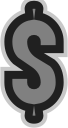
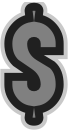
Fixed number alignments

diff --git a/src/static/css/sprites.css b/src/static/css/sprites.css
@@ -101,9 +101,9 @@
 .glyph_colon {
 	display: block;
 	width: 39px;
-	height: 81px;
-	background-position: 85.91549295774648% 0.051387461459403906%;
-	background-size:  2102.5641025641025% 2502.469135802469%;
+	height: 130px;
+	background-position: 85.91549295774648% 0.05271481286241434%;
+	background-size:  2102.5641025641025% 1559.2307692307693%;
 	background-image: url(../assets/img/sprites.png);
 	padding: 0;
 }
@@ -111,9 +111,9 @@
 .glyph_comma {
 	display: block;
 	width: 45px;
-	height: 54px;
-	background-position: 91.74193548387096% 0.05068423720223011%;
-	background-size:  1822.2222222222222% 3753.703703703704%;
+	height: 130px;
+	background-position: 91.74193548387096% 0.05271481286241434%;
+	background-size:  1822.2222222222222% 1559.2307692307693%;
 	background-image: url(../assets/img/sprites.png);
 	padding: 0;
 }
@@ -121,9 +121,9 @@
 .glyph_dollar {
 	display: block;
 	width: 68px;
-	height: 128px;
-	background-position: 0.13297872340425532% 6.9510268562401265%;
-	background-size:  1205.8823529411764% 1583.59375%;
+	height: 130px;
+	background-position: 0.13297872340425532% 6.9583552978386916%;
+	background-size:  1205.8823529411764% 1559.2307692307693%;
 	background-image: url(../assets/img/sprites.png);
 	padding: 0;
 }
@@ -131,9 +131,9 @@
 .glyph_equals {
 	display: block;
 	width: 54px;
-	height: 60px;
-	background-position: 9.138381201044385% 6.710726995424504%;
-	background-size:  1518.5185185185185% 3378.333333333333%;
+	height: 130px;
+	background-position: 9.138381201044385% 6.9583552978386916%;
+	background-size:  1518.5185185185185% 1559.2307692307693%;
 	background-image: url(../assets/img/sprites.png);
 	padding: 0;
 }
@@ -141,9 +141,9 @@
 .glyph_exclamation_mark {
 	display: block;
 	width: 40px;
-	height: 129px;
-	background-position: 16.025641025641026% 6.954689146469968%;
-	background-size:  2050% 1571.3178294573643%;
+	height: 130px;
+	background-position: 16.025641025641026% 6.9583552978386916%;
+	background-size:  2050% 1559.2307692307693%;
 	background-image: url(../assets/img/sprites.png);
 	padding: 0;
 }
@@ -151,9 +151,9 @@
 .glyph_minus {
 	display: block;
 	width: 61px;
-	height: 40px;
-	background-position: 21.870882740447957% 6.643180674383492%;
-	background-size:  1344.2622950819673% 5067.5%;
+	height: 130px;
+	background-position: 21.870882740447957% 6.9583552978386916%;
+	background-size:  1344.2622950819673% 1559.2307692307693%;
 	background-image: url(../assets/img/sprites.png);
 	padding: 0;
 }
@@ -161,9 +161,9 @@
 .glyph_period {
 	display: block;
 	width: 40px;
-	height: 42px;
-	background-position: 29.230769230769234% 6.649874055415617%;
-	background-size:  2050% 4826.190476190476%;
+	height: 130px;
+	background-position: 29.230769230769234% 6.9583552978386916%;
+	background-size:  2050% 1559.2307692307693%;
 	background-image: url(../assets/img/sprites.png);
 	padding: 0;
 }
@@ -171,9 +171,9 @@
 .glyph_plus {
 	display: block;
 	width: 61px;
-	height: 63px;
-	background-position: 35.44137022397892% 6.720977596741344%;
-	background-size:  1344.2622950819673% 3217.4603174603176%;
+	height: 130px;
+	background-position: 35.44137022397892% 6.9583552978386916%;
+	background-size:  1344.2622950819673% 1559.2307692307693%;
 	background-image: url(../assets/img/sprites.png);
 	padding: 0;
 }
@@ -181,9 +181,9 @@
 .glyph_question_mark {
 	display: block;
 	width: 68px;
-	height: 129px;
-	background-position: 44.015957446808514% 6.954689146469968%;
-	background-size:  1205.8823529411764% 1571.3178294573643%;
+	height: 130px;
+	background-position: 44.015957446808514% 6.9583552978386916%;
+	background-size:  1205.8823529411764% 1559.2307692307693%;
 	background-image: url(../assets/img/sprites.png);
 	padding: 0;
 }
@@ -191,19 +191,19 @@
 .glyph_quote {
 	display: block;
 	width: 46px;
-	height: 53px;
-	background-position: 51.67958656330749% 6.68693009118541%;
-	background-size:  1782.6086956521738% 3824.528301886792%;
+	height: 130px;
+	background-position: 51.67958656330749% 6.9583552978386916%;
+	background-size:  1782.6086956521738% 1559.2307692307693%;
 	background-image: url(../assets/img/sprites.png);
 	padding: 0;
 }
 
 .glyph_space {
 	display: block;
-	width: 48px;
+	width: 32px;
 	height: 130px;
-	background-position: 57.901554404145074% 6.9583552978386916%;
-	background-size:  1708.3333333333333% 1559.2307692307693%;
+	background-position: 56.7258883248731% 6.9583552978386916%;
+	background-size:  2562.5% 1559.2307692307693%;
 	background-image: url(../assets/img/sprites.png);
 	padding: 0;
 }
@@ -212,7 +212,7 @@
 	display: block;
 	width: 256px;
 	height: 256px;
-	background-position: 87.94326241134752% 7.453416149068323%;
+	background-position: 85.1063829787234% 7.453416149068323%;
 	background-size:  320.3125% 791.796875%;
 	background-image: url(../assets/img/sprites.png);
 	padding: 0;
